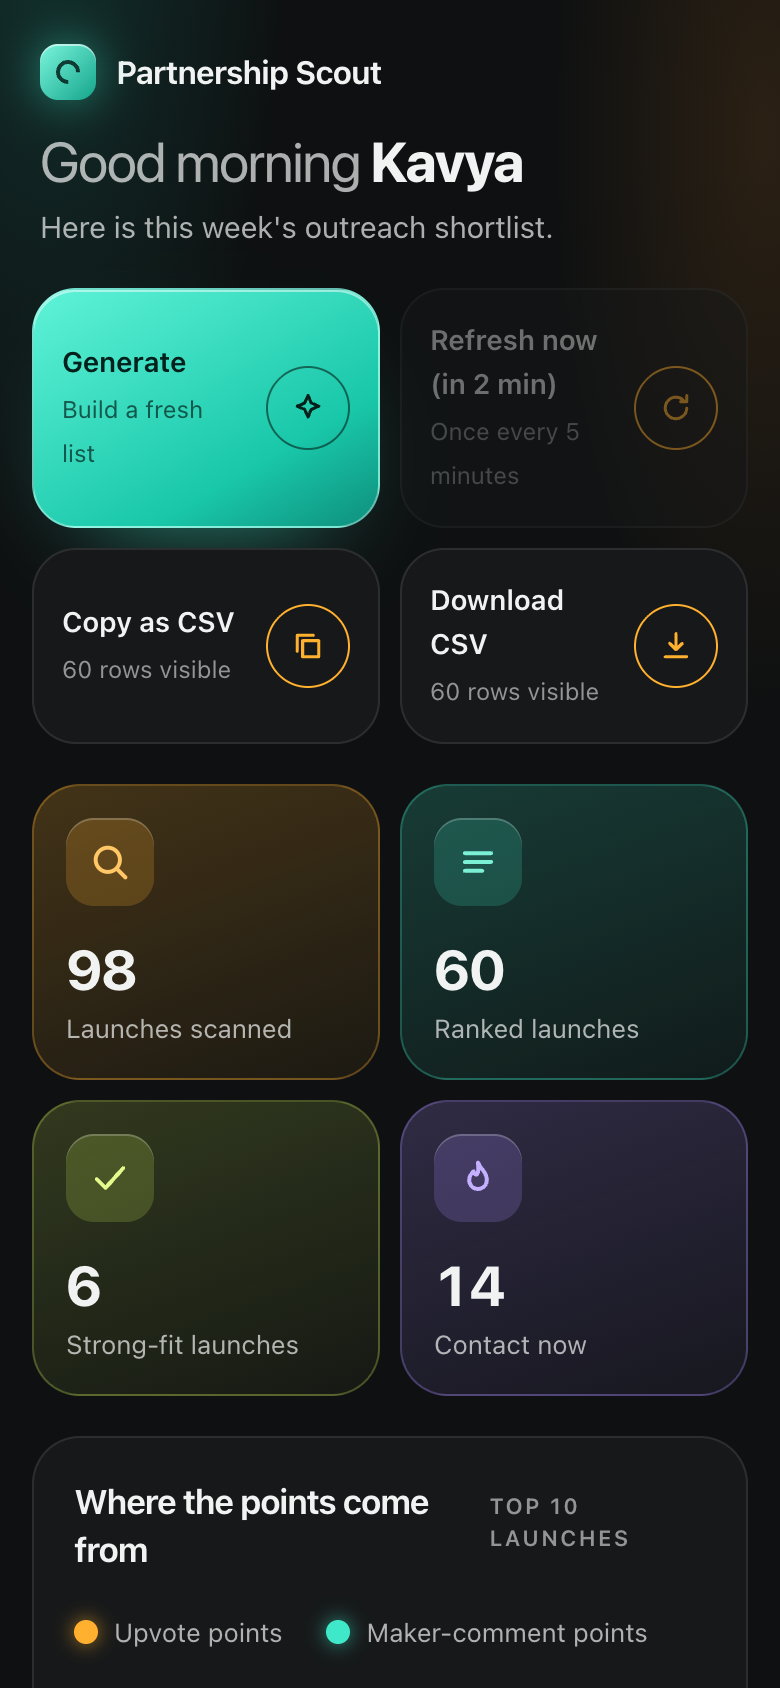
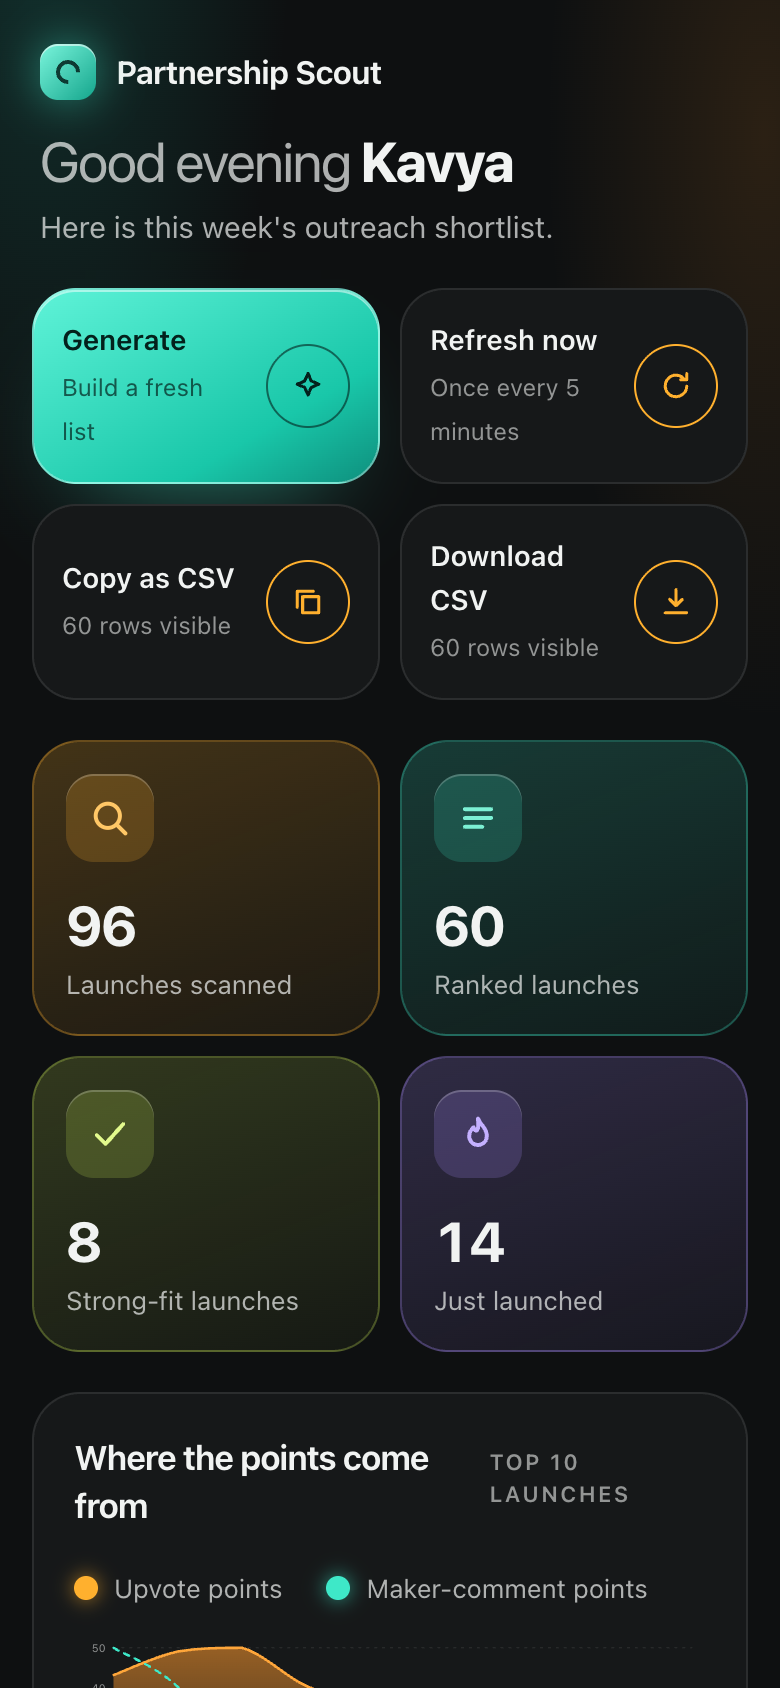
Count comments by makers that the list hides (placeholder id 0); refresh README screenshots and env docs

diff --git a/tests/counting.test.ts b/tests/counting.test.ts
@@ -11,7 +11,7 @@ process.env.PH_API_TOKEN = "test-token";
 import { _clearLocks, writeMany } from "../lib/cache";
 import { RATE_LIMIT_RESERVE } from "../lib/config";
 import { runScout } from "../lib/pipeline";
-import { countMakerCommentsBatch, type RateState } from "../lib/producthunt";
+import { countMakerComments, countMakerCommentsBatch, type RateState } from "../lib/producthunt";
 import { countingOrder, selectToCount } from "../lib/score";
 
 const NOW = new Date("2026-10-11T12:00:00Z");
@@ -199,5 +199,49 @@ describe("counts accumulate across runs", () => {
     expect(r.ranked.every((x) => x.makerComments === null && x.provisional)).toBe(true);
     expect(r.ranked.every((x) => x.score >= 0 && Number.isFinite(x.score))).toBe(true);
     expect(r.counted.n).toBe(0);
+  });
+});
+
+describe("countMakerComments with makers that the list hides", () => {
+  afterEach(() => vi.unstubAllGlobals());
+  const reply = (userId: string) => ({ id: `r${userId}`, userId });
+  const comment = (userId: string, replies: string[] = []) => ({ id: `c${userId}`, userId, replies: { nodes: replies.map(reply) } });
+  const page = (nodes: unknown[], makers?: { id: string }[], hasNextPage = false) => ({ data: { post: { ...(makers ? { makers } : {}), comments: { pageInfo: { hasNextPage, endCursor: hasNextPage ? "x" : null }, nodes } } } });
+  const stub = (pages: unknown[]) => {
+    const bodies: { variables: Record<string, unknown> }[] = [];
+    let i = 0;
+    vi.stubGlobal("fetch", async (_u: unknown, init: { body: string }) => {
+      bodies.push(JSON.parse(init.body));
+      return new Response(JSON.stringify(pages[Math.min(i++, pages.length - 1)]), { status: 200, headers: { "x-rate-limit-remaining": "5000", "content-type": "application/json" } });
+    });
+    return bodies;
+  };
+  const hidden = (): Launch => ({ ...mk("9", 10, 20), makers: [{ id: "0", name: "[REDACTED]", username: "[REDACTED]" }, { id: "0", name: "[REDACTED]", username: "[REDACTED]" }, { id: "m1", name: "Visible Maker", username: "vm" }] });
+
+  it("counts comments and replies by makers the list hid (ids from the post), and never counts the placeholder id 0", async () => {
+    stub([page([comment("m1"), comment("m2", ["m3", "zzz"]), comment("0"), comment("other", ["0", "m1"])], [{ id: "m1" }, { id: "m2" }, { id: "m3" }])]);
+    // m1 + (m2, reply m3) + (reply m1) = 4; the "0" author and "zzz"/"other" are not makers
+    expect(await countMakerComments(hidden(), { remaining: null })).toBe(4);
+  });
+  it("asks for the full maker list on the first page only", async () => {
+    const bodies = stub([page([comment("m2")], [{ id: "m2" }], true), page([comment("m2")])]);
+    await countMakerComments(hidden(), { remaining: null });
+    expect(bodies.map((b) => b.variables.withMakers)).toEqual([true, false]);
+  });
+  it("a maker found only on the first page is still counted on later pages", async () => {
+    stub([page([comment("m2")], [{ id: "m2" }], true), page([comment("m2"), comment("m2")])]);
+    expect(await countMakerComments(hidden(), { remaining: null })).toBe(3);
+  });
+  it("returns 0 and stops after one request when no maker can be identified at all", async () => {
+    const onlyHidden: Launch = { ...hidden(), makers: [{ id: "0", name: "[REDACTED]", username: "[REDACTED]" }] };
+    const bodies = stub([page([comment("0"), comment("x")], [], true), page([comment("0")])]);
+    expect(await countMakerComments(onlyHidden, { remaining: null })).toBe(0);
+    expect(bodies).toHaveLength(1);
+  });
+  it("makes no request for a launch with no comments or no listed makers", async () => {
+    const bodies = stub([page([comment("m1")], [{ id: "m1" }])]);
+    expect(await countMakerComments({ ...hidden(), commentsCount: 0 }, { remaining: null })).toBe(0);
+    expect(await countMakerComments({ ...hidden(), makers: [] }, { remaining: null })).toBe(0);
+    expect(bodies).toHaveLength(0);
   });
 });

diff --git a/lib/producthunt.ts b/lib/producthunt.ts
@@ -176,8 +176,9 @@ export async function fetchLaunches(now: Date, rate: RateState, categories: Cate
 }
 
 const COMMENTS_QUERY = `
-query($id: ID!, $after: String) {
+query($id: ID!, $after: String, $withMakers: Boolean!) {
   post(id: $id) {
+    makers @include(if: $withMakers) { id }
     comments(first: 20, after: $after) {
       pageInfo { hasNextPage endCursor }
       nodes { id userId replies(first: 20) { nodes { id userId } } }
@@ -187,6 +188,7 @@ query($id: ID!, $after: String) {
 
 interface CommentsData {
   post: {
+    makers?: { id: string }[];
     comments: {
       pageInfo: { hasNextPage: boolean; endCursor: string | null };
       nodes: { id: string; userId: string; replies: { nodes: { id: string; userId: string }[] } }[];
@@ -194,14 +196,23 @@ interface CommentsData {
   } | null;
 }
 
-/** Count comments and replies whose userId is one of the launch's maker ids (at most 4 pages). */
+// Product Hunt hides some makers in list results (name "[REDACTED]", id "0"); the single-post query still has their real ids.
+const realId = (id: unknown): id is string => typeof id === "string" && id !== "" && id !== "0";
+
+/**
+ * Count comments and replies whose userId is one of the launch's maker ids (at most 4 pages). The maker ids come from the list
+ * data plus the full maker list read together with the first page of comments (no extra request), so makers that the list
+ * hides are counted too. The placeholder id "0" never matches anyone.
+ */
 export async function countMakerComments(launch: Launch, rate: RateState): Promise<number> {
-  const makerIds = new Set(launch.makers.map((m) => m.id));
-  if (makerIds.size === 0 || launch.commentsCount === 0) return 0;
+  const makerIds = new Set(launch.makers.map((m) => String(m.id)).filter(realId));
+  if (launch.makers.length === 0 || launch.commentsCount === 0) return 0;
   let after: string | null = null;
   let count = 0;
   for (let page = 0; page < MAKER_COMMENT_MAX_PAGES; page++) {
-    const data: CommentsData = await gql<CommentsData>(COMMENTS_QUERY, { id: launch.id, after }, rate);
+    const data: CommentsData = await gql<CommentsData>(COMMENTS_QUERY, { id: launch.id, after, withMakers: page === 0 }, rate);
+    if (page === 0) for (const m of data.post?.makers ?? []) if (realId(String(m.id))) makerIds.add(String(m.id));
+    if (makerIds.size === 0) return 0; // no maker can be identified, so nothing to count
     const comments = data.post?.comments;
     if (!comments) break;
     for (const c of comments.nodes) {

diff --git a/README.md b/README.md
@@ -18,7 +18,7 @@ The UI is a dark dashboard built with original CSS and inline SVG (cards, pills,
 
 1. **Generate** (Kavya) calls `POST /api/scout`. The four categories from the case are built in and always scanned (`lib/categories.ts`). **Optional extra categories** (Sales tools, Marketing tools, Analytics, AI tools) are **off by default**: Kavya can switch on up to 2 under "Add optional categories" and they are added to her next Generate (the choice is remembered in her browser). Only ids from this fixed menu are accepted (the page cannot send topic names), and only from a browser on this site, because each extra topic costs about 400 Product Hunt API points to read and its launches need maker-comment counts. Each combination of extras has its own saved list (1 hour); the scheduled refresh keeps only the default list warm, so the first Generate after switching an extra on is slower and some extra launches may be Provisional until later runs. If live data is unavailable the app falls back to the four main categories and says so. Launches are tagged and filterable by an extra category only while it is switched on.
 2. The server fetches launches (featured or not) from the last 7 days through the Product Hunt GraphQL API v2. It reads each of the six topics behind the four categories by votes, **4 pages (80 launches) deep**, de-duplicates by post id, and keeps **25 launches per category chosen by both signals**: a 50/50 blend of upvotes and total comments (`potentialOf` in `lib/score.ts`). Total comments are free in the list query and are an upper bound for maker comments (every maker comment is a comment), so a launch with fewer votes but a very busy thread is not cut just for sitting lower by votes. This only decides who is considered; the real score and rank still use upvotes and maker comments alone.
-3. It counts **maker comments** (top-level comments and replies written by one of the launch's makers, matched by user id) down the ranked list, up to 40 launches, stopping early when the Product Hunt rate-limit budget falls to a reserve.
+3. It counts **maker comments** (top-level comments and replies written by one of the launch's makers, matched by user id; makers that the list data hides as "[REDACTED]" come back with the placeholder id 0, so the real maker ids are read together with the first page of comments, at no extra request, and the placeholder never matches anyone) down the ranked list, up to 40 launches, stopping early when the Product Hunt rate-limit budget falls to a reserve.
 4. **Score and rank are computed in code.** Gemini never touches the order.
 5. **Gemini Flash** (`@google/genai`) labels partnership fit and writes a one-liner, an outreach angle and a verbatim evidence quote, in batched calls. Only launches without a saved result are sent. Only launch text is sent (name, tagline, description, topic names): no maker or commenter names or ids. If the direct Google call fails (invalid key, quota, outage) and a backup key is set, the same request is retried through OpenRouter to Google's own Gemini Flash model.
    **Draft message:** each row with an angle has a button that asks Gemini Flash (one call, saved in Neon for 7 days) for a short first message in Kavya's voice. It sees only public launch text and the saved angle, never founder names: the greeting carries a placeholder that the page fills in with the founder first name already on screen. She picks **Email** (subject and body) or **Short DM** (a few lines for LinkedIn or Product Hunt), edits it, copies it and sends it herself from her own accounts. Links and email addresses in the draft are rejected, the endpoint accepts only a launch id from the page, and nothing is sent by the tool.
@@ -39,7 +39,7 @@ Score = 100 x (0.5 x V + 0.5 x M)
 
 **Coverage.** Not every launch in the window is read: the biggest topics hold about 1,000 launches a week, and each list page costs about 100 API points. Reading 80 per topic reaches launches with roughly 50 votes in those topics, and in the smaller categories it reaches everything with any votes. A launch below that depth would need roughly 60 or more maker comments (almost as many as the best launch of the week) on around 50 votes to enter the top 5, which does not happen in practice. Measured on 11 Oct 2026: widening the pool from 78 to 98 launches did not change the top 20 (the best newly found launch ranked #21).
 
-**Maker-comment limit.** Counting maker replies costs Product Hunt API points (about 100 per page of comments; the limit is 6,250 points per 15 minutes), so one run fetches counts for at most 40 launches (highest potential first) and stops earlier if the budget falls to a reserve of 1,500 points. **Counts accumulate:** every run (Generate, Refresh now and `/api/refresh`) fetches only launches that have no valid saved count, most upvotes first, and each count is saved for 6 hours, so after a few runs nearly every launch has a real count. A launch that has not been reached yet shows "not counted" and its score is tagged **Provisional**: it treats maker comments as 0, so the true score can only be higher. If a saved count has expired and cannot be refreshed, it is kept but labelled as a saved copy (CACHED). The page says "counted for N of M launches" and how many rows are Provisional.
+**Maker-comment limit.** Comments are read from the first 4 pages (80 top-level comments, up to 20 replies each), which covered every launch checked on 12 Oct 2026 (the biggest had 55 top-level comments); a launch with more would be undercounted. Counting maker replies costs Product Hunt API points (about 100 per page of comments; the limit is 6,250 points per 15 minutes), so one run fetches counts for at most 40 launches (highest potential first) and stops earlier if the budget falls to a reserve of 1,500 points. **Counts accumulate:** every run (Generate, Refresh now and `/api/refresh`) fetches only launches that have no valid saved count, most upvotes first, and each count is saved for 6 hours, so after a few runs nearly every launch has a real count. A launch that has not been reached yet shows "not counted" and its score is tagged **Provisional**: it treats maker comments as 0, so the true score can only be higher. If a saved count has expired and cannot be refreshed, it is kept but labelled as a saved copy (CACHED). The page says "counted for N of M launches" and how many rows are Provisional.
 
 Launches posted today often show 0 votes because Product Hunt hides them; those go to **Too early to rank** instead of the bottom of the list.
 
@@ -80,6 +80,8 @@ Neon Postgres (free plan, added through the Vercel Marketplace) stores **only pu
 | `GEMINI_MODEL` | Gemini Flash model id (default `gemini-3.8-flash`) |
 | `DATABASE_URL` | Neon pooled connection string (added by the Vercel Neon integration) |
 | `CRON_SECRET` | Protects `/api/refresh` |
+| `CACHE_NS` | Optional: prefix for saved copies and send limits in the database, used to isolate test runs (leave unset in production; default `v1`) |
+| `APP_URL` | A GitHub Actions *variable* (not a secret, not a Vercel setting): the bare host name the 15-minute refresh job calls; the job also needs `CRON_SECRET` as a GitHub secret |
 | `NOTIFICATIONS_ENABLED`, `TELEGRAM_BOT_TOKEN`, `TELEGRAM_CHAT_ID`, `RESEND_API_KEY`, `NOTIFY_EMAIL` | Optional copy of the list to Kavya (see above) |
 
 Secrets live only in `.env.local` (git-ignored), Vercel env vars and GitHub Actions secrets. See `.env.example`.
